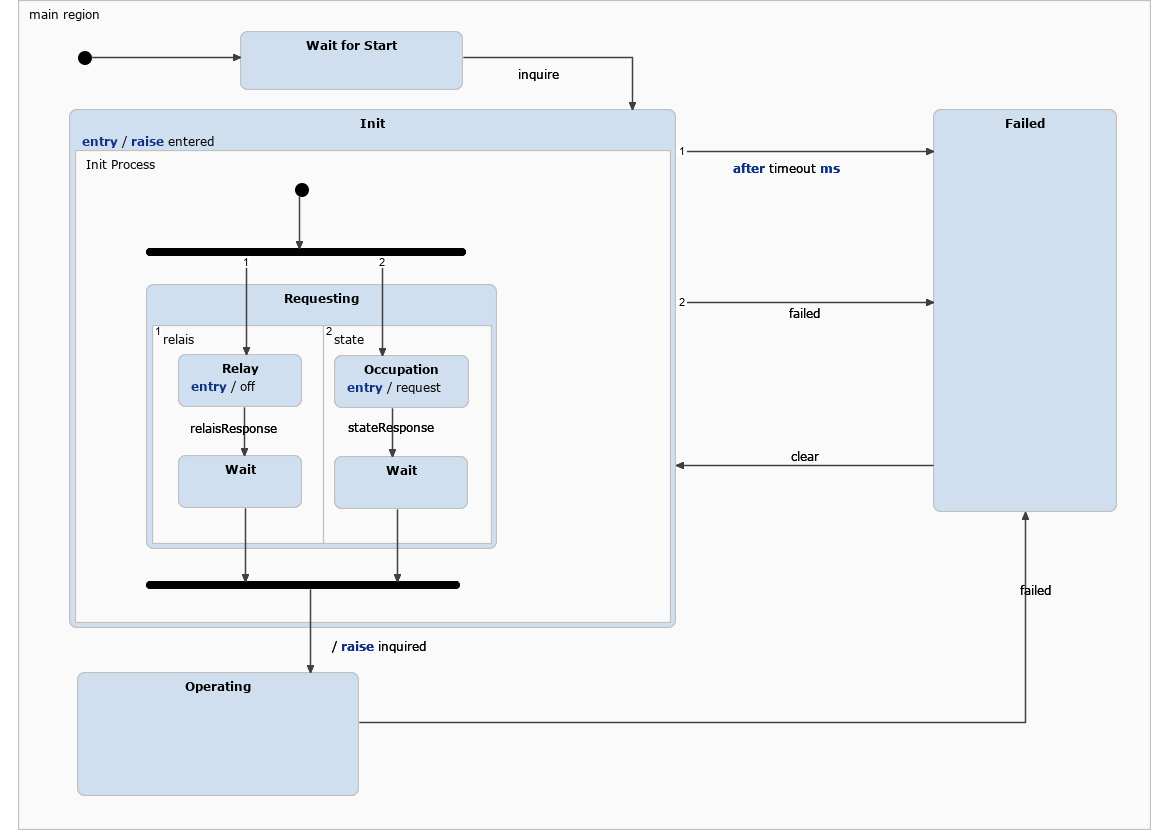
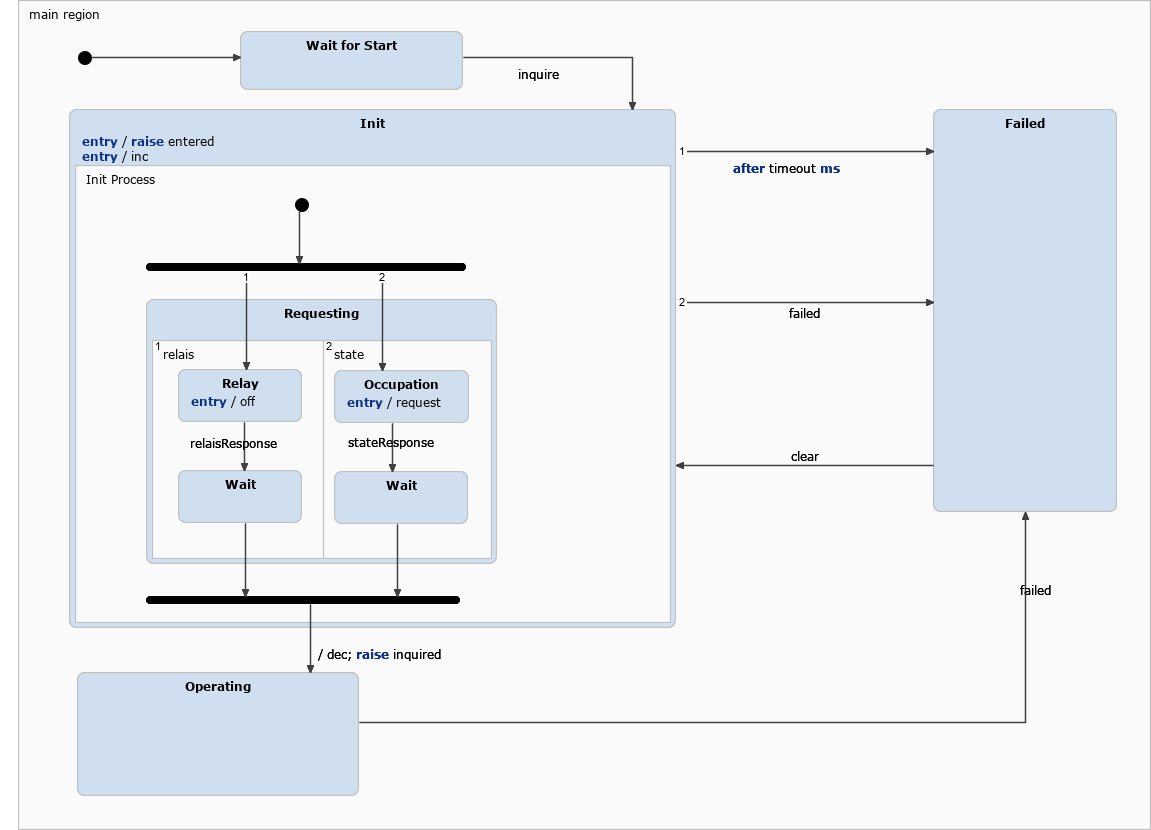
Optimized section transactions.

Changed region(s): [[0.0608, 0.1807, 0.6082, 0.8133]]

diff --git a/track-control-ng/ctrl/sectioncontroller.cpp b/track-control-ng/ctrl/sectioncontroller.cpp
@@ -32,13 +32,11 @@ SectionController::SectionController(
 	connect(
 		&statechart, &SectionStatechart::entered, [&]()
 	{
-		ControllerRegistry::instance().increase(this);
 		qDebug().noquote() << ctrl_section->toString() << "Inquiry started.";
 	});
 	connect(
 		&statechart, &SectionStatechart::inquired, [&]()
 	{
-		ControllerRegistry::instance().decrease(this);
 		qDebug().noquote() << ctrl_section->toString() << "Inquiry completed.";
 	});
 
@@ -56,6 +54,16 @@ SectionController::~SectionController()
 Section * SectionController::section() const
 {
 	return *this;
+}
+
+void SectionController::inc()
+{
+	ControllerRegistry::instance().increase(this);
+}
+
+void SectionController::dec()
+{
+	ControllerRegistry::instance().decrease(this);
 }
 
 QString SectionController::name() const

diff --git a/statecharts/SectionStatechart.cpp b/statecharts/SectionStatechart.cpp
@@ -279,6 +279,7 @@ namespace mrw
 			/* Entry action for state 'Init'. */
 			timerService->setTimer(this, 0, timeout, false);
 			emit entered();
+			ifaceOperationCallback->inc();
 		}
 
 		/* Entry action for state 'Relay'. */
@@ -623,6 +624,7 @@ namespace mrw
 		{
 			/* The reactions of state null. */
 			exseq_main_region_Init();
+			ifaceOperationCallback->dec();
 			emit inquired();
 			enseq_main_region_Operating_default();
 			react(0);

diff --git a/track-control-ng/ctrl/sectioncontroller.h b/track-control-ng/ctrl/sectioncontroller.h
@@ -36,7 +36,12 @@ namespace mrw::ctrl
 
 		model::Section * section() const;
 
+	private:
+
 		// Implementations from BaseController
+		virtual void inc() override;
+		virtual void dec() override;
+
 		virtual QString name() const override;
 		virtual float   extensions() const override;
 		virtual bool    isDirection() const override;

diff --git a/statecharts/SwitchStatechart.cpp b/statecharts/SwitchStatechart.cpp
@@ -758,8 +758,8 @@ namespace mrw
 				if (response_raised)
 				{
 					exseq_main_region_Init();
-					emit inquired();
 					ifaceOperationCallback->dec();
+					emit inquired();
 					enseq_main_region_Operating_default();
 					react(0);
 					transitioned_after = 0;

diff --git a/track-control-ng/ctrl/railcontrollerproxy.h b/track-control-ng/ctrl/railcontrollerproxy.h
@@ -30,6 +30,8 @@ namespace mrw::ctrl
 			mrw::model::Rail   *  referenced_rail,
 			QObject       *       parent);
 
+	private:
+
 		// Implementations from BaseController
 		virtual QString name() const override;
 		virtual float   extensions() const override;

diff --git a/track-control-ng/ctrl/signalcontrollerproxy.h b/track-control-ng/ctrl/signalcontrollerproxy.h
@@ -37,6 +37,8 @@ namespace mrw::ctrl
 			QObject       *       parent);
 		virtual ~SignalControllerProxy();
 
+	private:
+
 		// Implementations from BaseController
 		virtual QString name() const override;
 		virtual float   extensions() const override;

diff --git a/statecharts/SectionStatechart.h b/statecharts/SectionStatechart.h
@@ -114,6 +114,10 @@ namespace mrw
 			public:
 				virtual ~OperationCallback() = 0;
 
+				virtual void inc() = 0;
+
+				virtual void dec() = 0;
+
 				virtual void off() = 0;
 
 				virtual void on() = 0;

diff --git a/track-control-ng/ctrl/doublecrossswitchcontrollerproxy.h b/track-control-ng/ctrl/doublecrossswitchcontrollerproxy.h
@@ -37,6 +37,7 @@ namespace mrw::ctrl
 		void turnRight();
 
 	private:
+
 		// Implementations from BaseController
 		virtual QString name() const override;
 		virtual bool    isDirection() const override;

diff --git a/track-control-ng/ctrl/regularswitchcontrollerproxy.h b/track-control-ng/ctrl/regularswitchcontrollerproxy.h
@@ -37,6 +37,7 @@ namespace mrw::ctrl
 		void turnRight();
 
 	private:
+
 		// Implementations from BaseController
 		virtual QString name() const override;
 		virtual bool    isDirection() const override;
